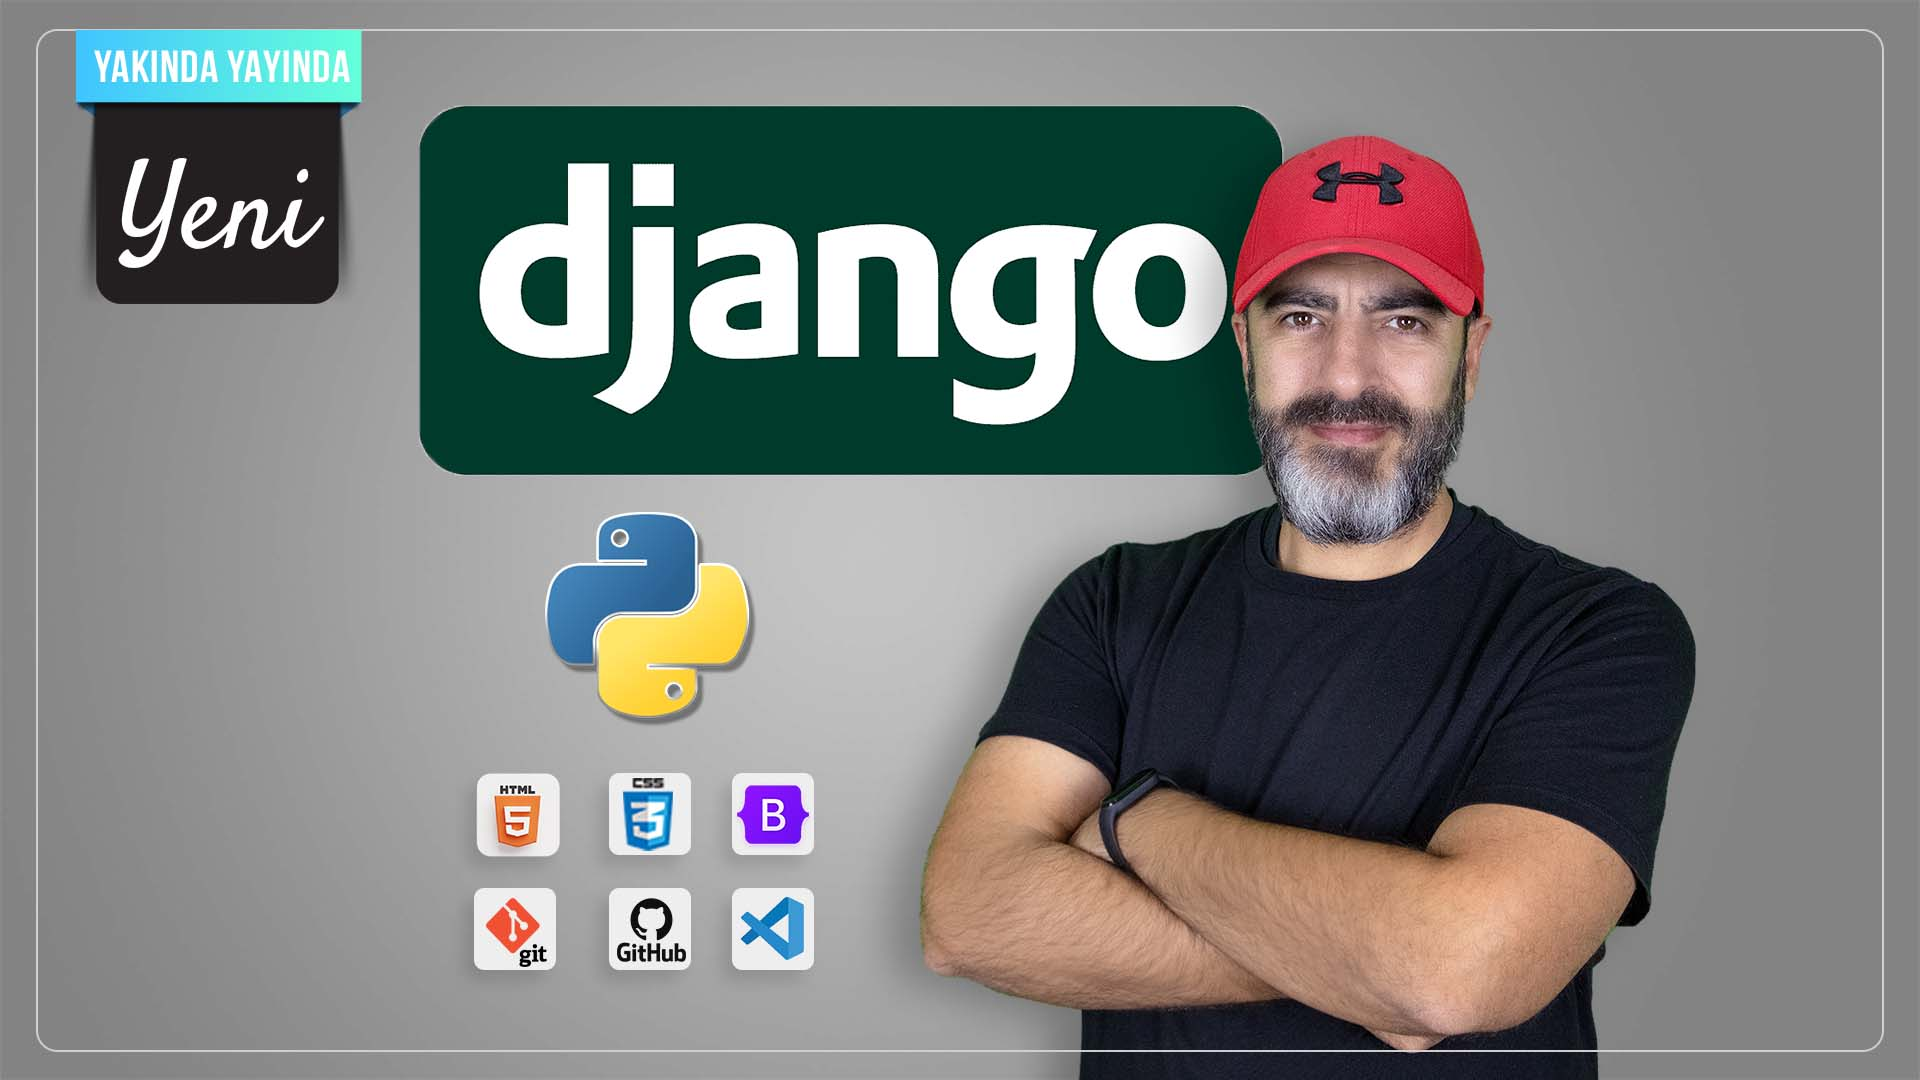
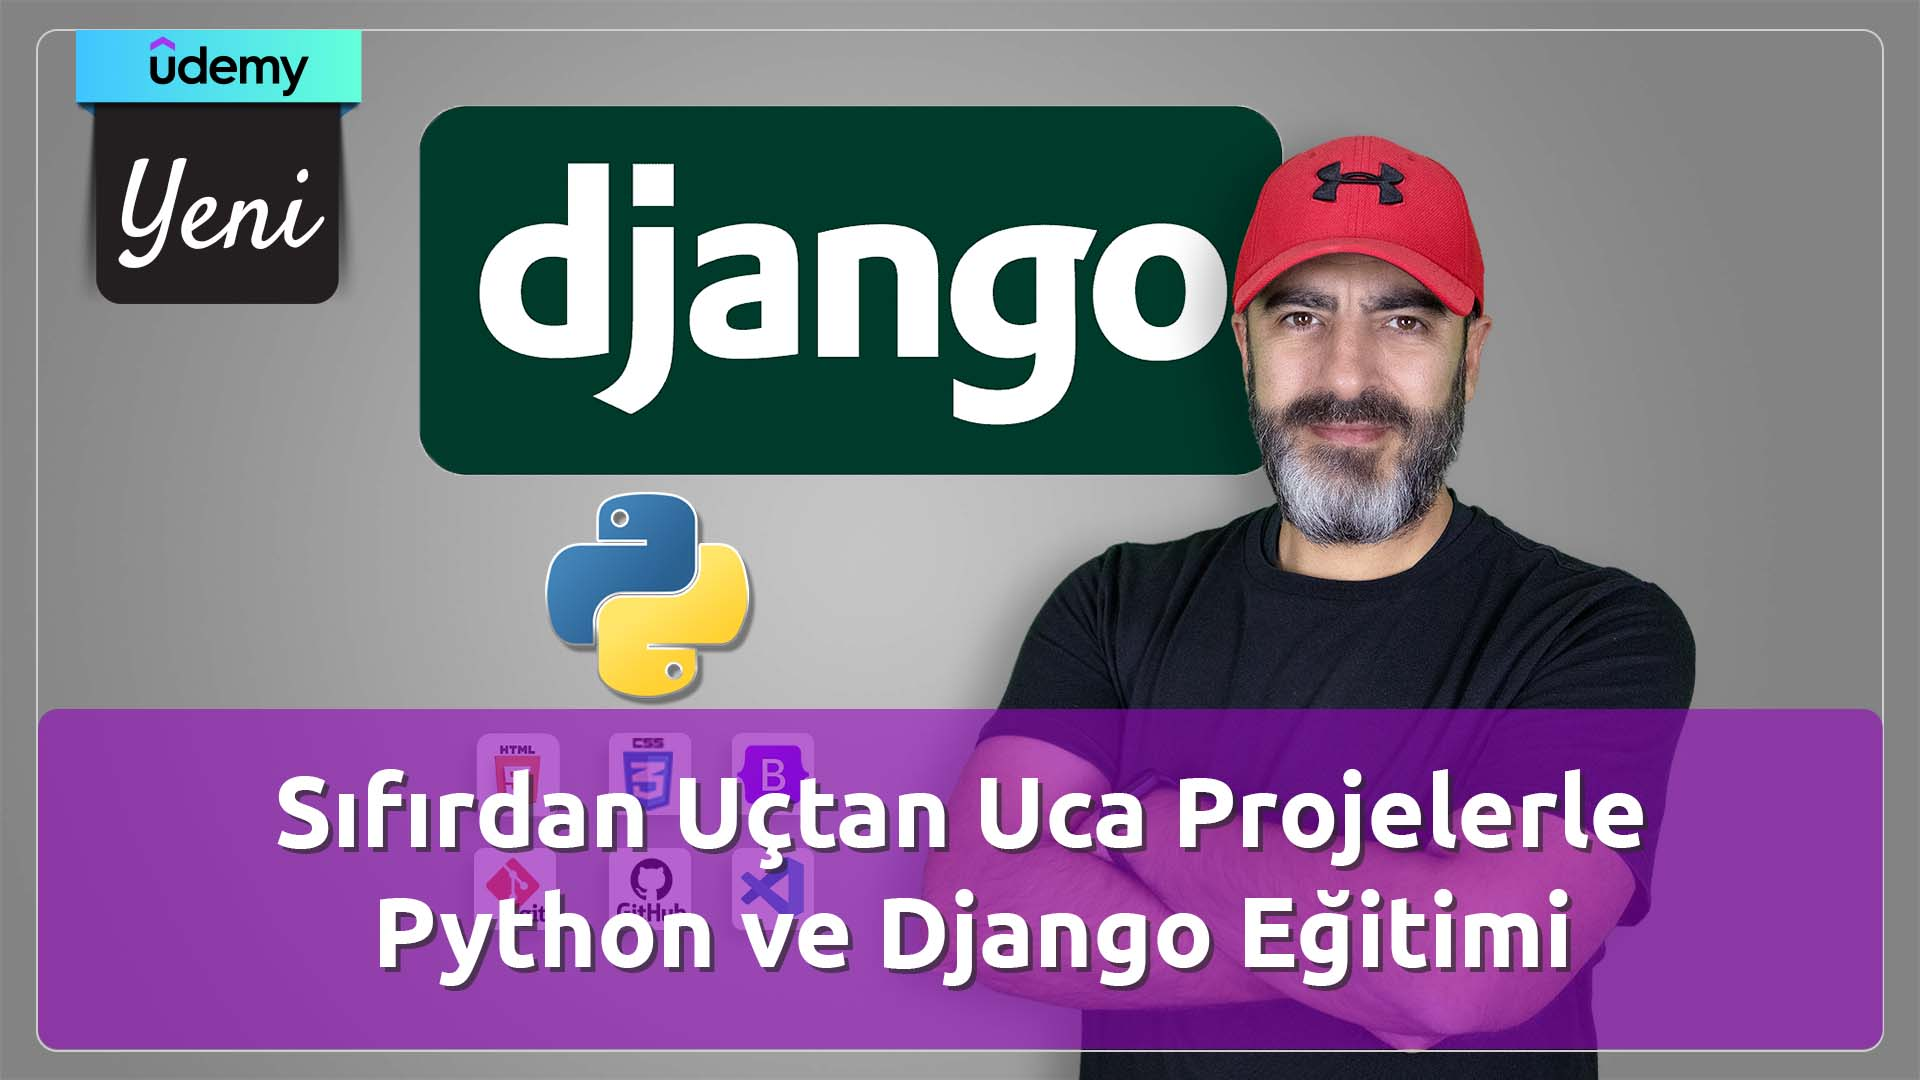
README: Udemy Django Training Image Updated

diff --git a/README.md b/README.md
@@ -3,8 +3,9 @@
 [![Hakan Yalçınkaya](assets/img/hy.png)](https://bit.ly/hy-ytb-sb)
 
 ## Udemy
-[![İki Eğitmen ile Sıfırdan Python Öğren](assets/img/udemy_python_django_v4.jpg)](http://lnk.ktlzr.co/gtdjf)
+[![Udemy: Sıfırdan Uçtan Uca Projelerle Python ve Django Eğitimi](assets/img/udemy_python_django_v4.jpg)](http://lnk.ktlzr.co/gtdj)
 
+[Udemy: Sıfırdan Uçtan Uca Projelerle Python ve Django Eğitimi](http://lnk.ktlzr.co/gtdj)
 ********************************
 
 [![İki Eğitmen ile Sıfırdan Python Öğren](assets/img/iki-egitmen-ile-python-ogren.jpg)](http://lnk.ktlzr.co/gtupy)
